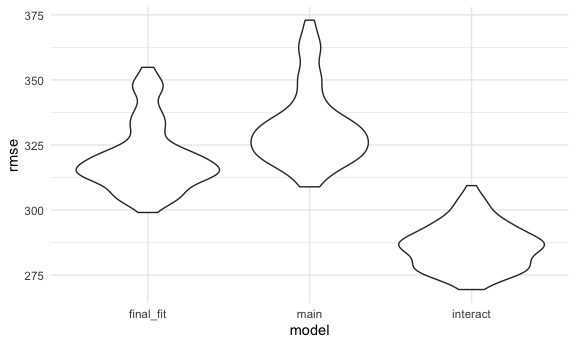
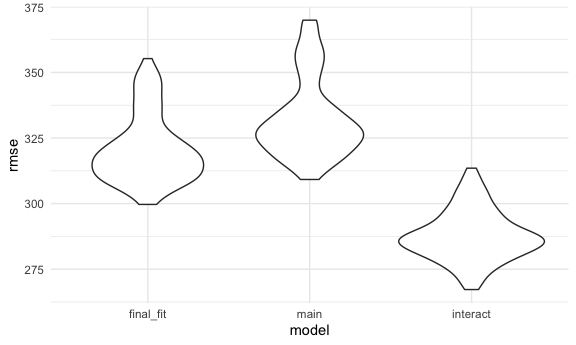
final commit for hw 6, data science woo!!!!

diff --git a/p8105_asn2139_hw6.md b/p8105_asn2139_hw6.md
@@ -343,6 +343,13 @@ residuals_df
     ## `geom_smooth()` using method = 'gam' and formula 'y ~ s(x, bs = "cs")'
 
 <img src="p8105_asn2139_hw6_files/figure-gfm/unnamed-chunk-16-1.png" width="90%" />
+Comments on my model:
+
+It looks there is just a very large cluster of values that are between
+2000 and 4000 that don’t follow a particular pattern. The linear
+regression model that I made doesn’t seem to really follow the values
+after around a predicted birthweight of around 2000 grams.
+
 Compare your model to two others:
 
 One using length at birth and gestational age as predictors (main
@@ -412,6 +419,10 @@ comparison_results %>%
 ```
 
 <img src="p8105_asn2139_hw6_files/figure-gfm/unnamed-chunk-19-1.png" width="90%" />
+Comparison of errors: The plot above indicates that the interact model
+has the least RMSE and is probably the best fit model compared to the
+linear model that I made as well as the main model suggested by Problem
+2.
 
 ### Problem 3
 
@@ -489,3 +500,20 @@ w_bootstrap_2 %>%
 ```
 
 <img src="p8105_asn2139_hw6_files/figure-gfm/unnamed-chunk-24-1.png" width="90%" />
+
+``` r
+quantile(pull(w_bootstrap_2, r.squared), probs = c(0.025, 0.975))
+```
+
+    ##      2.5%     97.5% 
+    ## 0.8939856 0.9276292
+
+``` r
+quantile(pull(w_bootstrap_2, log_results), probs = c(0.025, 0.975))
+```
+
+    ##     2.5%    97.5% 
+    ## 1.964063 2.059932
+
+The 95% CI for r^2 is between 0.894 and 0.927 . The 95% CI for
+log(b0\*b1) is between 1.965 and 2.060.
